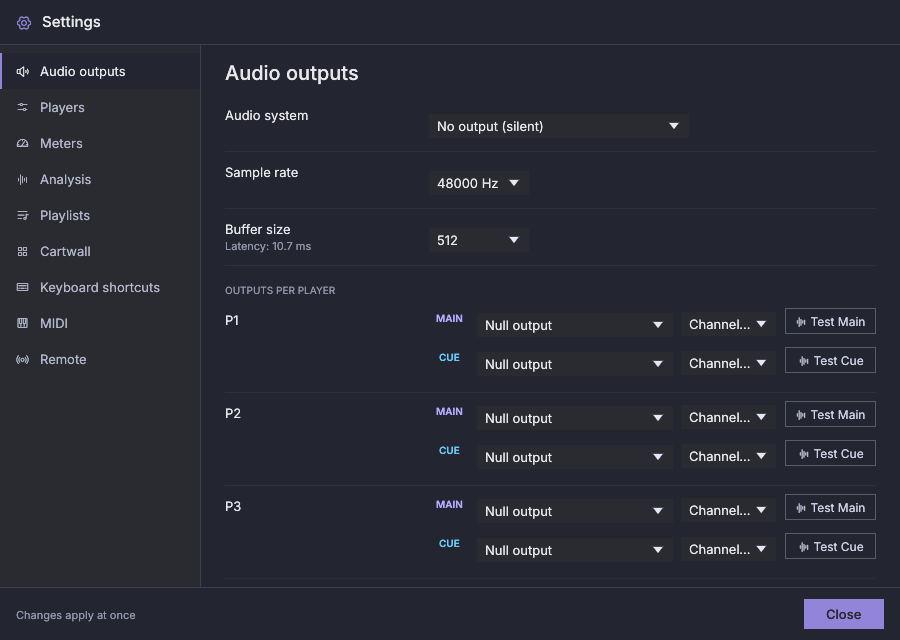
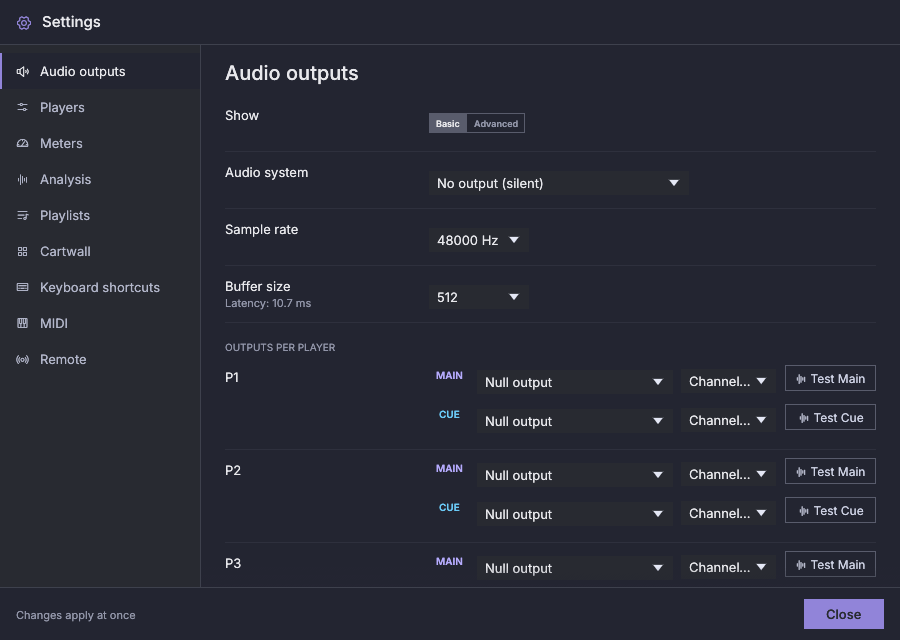
docs: describe the Basic and Advanced outputs settings
Operator feedback 4, Q12 and Q3: the guide, the technical docs and the
README describe each device's own rate and buffer, the DSD row on every
device with its reason, and the DSD silence control. The spec records
plan 5 as built, with the three choices pending confirmation.

diff --git a/docs/user/settings.md b/docs/user/settings.md
@@ -16,9 +16,9 @@ Cartwall, MIDI and Remote have none.
 ## Restart pending
 
 Some changes only take effect when the application starts again: the audio
-system, sample rate, buffer size, the Main and Cue outputs (players and
-cartwall) and the bit-perfect devices. The number of players is not one of
-them: it applies at once.
+system, sample rate, buffer size (also a device's own), the Main and Cue
+outputs (players and cartwall), the bit-perfect devices and the DSD settings.
+The number of players is not one of them: it applies at once.
 
 The limits and the engine tuning also apply at the next start, but they are
 edited in the configuration file with the application closed (see
@@ -45,19 +45,29 @@ start it from your applications menu.
 Changes in this section wait for a restart: see
 [Restart pending](#restart-pending).
 
-![Settings, Audio outputs: the audio system, sample rate, buffer size and each player's Main and Cue outputs (here the silent system)](../images/guide/settings-outputs.png)
+![Settings, Audio outputs, Basic view: the selector, the audio system, sample rate, buffer size and each player's Main and Cue outputs (here the silent system)](../images/guide/settings-outputs.png)
+
+At the top, **Show** chooses **Basic** or **Advanced**. Basic shows the
+audio system, the sample rate, the buffer size and the outputs. Advanced
+adds, for each device an output uses, its own rate and buffer, the
+bit-perfect switch and the DSD mode, and then the DSD settings. Switching
+views only shows or hides rows: nothing is changed or reset. When Basic
+hides a setting that is in use, a line says so.
 
 | Setting | Meaning |
 |---|---|
 | Audio system | The last choice, **No output (silent)**, plays nothing: timelines run at real-time pace with no sound card (for a machine without one, or to rehearse). Linux: PipeWire (in builds that include it), PulseAudio, JACK or ALSA. Windows: WASAPI, ASIO (in builds that include it) or JACK. macOS: Core Audio or JACK. Systems missing on this computer, or with no output device (a JACK server that is not running), are shown as unavailable. "System default" uses the first available one in that order. |
-| Sample rate | The rate every output runs at; files are converted to it with high-quality resampling. Bit-perfect devices start at this rate and then follow the files. |
-| Buffer size | Frames per audio block; the resulting latency is shown below it |
+| Sample rate | The rate every output runs at unless a device has its own (Advanced); files are converted to it with high-quality resampling. Bit-perfect devices start at their rate and then follow the files. |
+| Buffer size | Frames per audio block, unless a device has its own; the resulting latency is shown below it |
 | Outputs per player | For each player, a **Main** (on-air) device and a **Cue** (pre-listen) device, each with a channel pair. A sound card that offers several output profiles (ALSA lists front, surround, direct hardware…) shows each as *card — profile*; two entries that would still read the same get their device id in brackets. Multichannel interfaces can carry several players on different pairs. |
 | Test Main / Test Cue | Plays a short tone (1 kHz on Main, 440 Hz on Cue, 1.5 s, −18 dBFS) on the chosen output, so you can check the wiring before going on air |
 | Cartwall | The cartwall's Main and Cue outputs. Main defaults to the system output. Without a Cue there is no cart pre-listen. |
-| Bit-perfect devices | One switch per device chosen above. A bit-perfect device is opened with exclusive access and follows each file's sample rate while nothing plays on it. The switch is disabled where the device cannot give exclusive access. See [Bit-perfect output](bit-perfect.md). |
-| DSD (per bit-perfect device) | **Convert to PCM** (the default), **DoP** or, on Linux, **Native DSD**. Only the modes the device can take are offered. With DoP or native DSD, a DSD track reaches the device unchanged when nothing else plays on it and the player's volume is 100 %. See [DSD](bit-perfect.md#dsd). |
-| When another source needs a DSD output | **Continue the DSD track as PCM** (the default), or **Keep DSD and mute the other sources**. See [DSD](bit-perfect.md#dsd). |
+| Sample rate: *device* (Advanced) | **Global (...)** uses the sample rate above; a value gives this device its own rate. Only the rates the device reports are offered. |
+| Buffer size: *device* (Advanced) | **Global (...)** uses the buffer size above; a value gives this device its own, with its latency below. |
+| Bit-perfect: *device* (Advanced) | A bit-perfect device is opened with exclusive access and follows each file's sample rate while nothing plays on it. The switch is disabled where the device cannot give exclusive access. See [Bit-perfect output](bit-perfect.md). |
+| DSD: *device* (Advanced) | **Convert to PCM** (the default), **DoP** or, on Linux, **Native DSD**. Every device shows it; only the modes the device can take are offered, and a line under it says why the others are not. See [DSD](bit-perfect.md#dsd). |
+| When another source needs a DSD output (Advanced) | **Continue the DSD track as PCM** (the default), or **Keep DSD and mute the other sources**. See [DSD](bit-perfect.md#dsd). |
+| DSD silence (Advanced) | Silence sent before a DSD stream starts, after it ends and on a switch to PCM, so that the converter locks without a click; 200 ms by default, 0 to 2000. |
 
 A Cue output never falls back to the output Main uses, so that pre-listening
 never goes on air. A Cue that names a device on an audio system this

diff --git a/docs/user/bit-perfect.md b/docs/user/bit-perfect.md
@@ -10,8 +10,12 @@ processing on the computer should be avoided.
 1. In **Settings → Audio outputs**, choose the device explicitly for a
    player's Main output (or the cartwall's). A player left on the system
    default cannot be made bit-perfect.
-2. Under **Bit-perfect devices**, turn on the switch next to the device.
+2. Choose **Advanced** at the top of the section. Under **Per-device
+   settings**, turn on **Bit-perfect** next to the device.
 3. Restart the application.
+
+The device then starts at its own sample rate when you gave it one in the same
+place, else at the global sample rate, and follows each file from there.
 
 The switch is disabled when the device cannot give exclusive access.
 - **Linux:** choose an ALSA device whose name starts with `hw:`. It is the
@@ -61,15 +65,17 @@ The switch is disabled when the device cannot give exclusive access.
 A DSD file normally plays converted to PCM, like any other file. A
 bit-perfect device can instead receive the DSD stream unchanged.
 
-**The three modes.** Under each bit-perfect device, Settings → Audio outputs
-has a **DSD** choice, next to the device's bit-perfect switch:
+**The three modes.** In the Advanced view of Settings → Audio outputs, every
+device an output uses has a **DSD** choice under its bit-perfect switch:
 - **Convert to PCM** (the default): DSD is converted, as on any other device.
 - **DoP** (DSD over PCM): the DSD bits travel inside 24-bit PCM samples, which
   most DSD-capable converters recognise. It works on every system.
 - **Native DSD** (Linux only): raw DSD, for ALSA `hw:` devices whose driver
   reports a DSD sample format.
 
-Only the modes the device can take are offered. Changing a mode, the mixing
+Only the modes the device can take are offered, and a line under the choice
+says why the others are not: bit-perfect is off, the device cannot be opened
+exclusively, native DSD needs Linux, or the device does not take native DSD. Changing a mode, the mixing
 setting or the DSD silence needs a restart, like the other output settings.
 
 **When DSD goes out unchanged.** All of these must hold when the track
@@ -115,8 +121,8 @@ silence first (200 ms by default), so that the converter locks without a
 click. The exception is a DSD track that continues a stream of the same kind
 and DSD rate whose silence is still running: the converter is still locked, so
 it starts with no extra silence. A track therefore starts that much later, and a switch to PCM leaves a
-gap of that length. It is `outputs.dsd_silence_ms` in the configuration file
-(0 to 2000).
+gap of that length. It is **DSD silence** in Settings → Audio outputs, Advanced
+(0 to 2000 ms).
 
 **When another source needs the device.** **When another source needs a DSD
 output** in Settings → Audio outputs chooses what happens when another
@@ -199,7 +205,7 @@ have not been tried on a real converter by the project. To check one:
    PCM**.
 2. Listen for a click or a burst of noise at the start, at Stop, at the end
    of the track and when moving the fader. A click means the converter needs
-   a longer `outputs.dsd_silence_ms`.
+   a longer **DSD silence** (Settings → Audio outputs, Advanced).
 3. Start a cart or another player on the same device, once with each mixing
    setting, and check the behaviour described above.
 4. On Linux, to check native DSD without the application, run

diff --git a/docs/superpowers/plans/2026-10-06-feedback4-plan5-outputs-settings.md b/docs/superpowers/plans/2026-10-06-feedback4-plan5-outputs-settings.md
@@ -2233,12 +2233,12 @@ fi
 - Check only: the spec lines Q12 and Q3 change are already in the main spec (L469), the bit-perfect spec (L42, L85) and the feedback 2 spec (L516–518).
 - Locales: none (Tasks 4 and 5 added every string to both).
 
-- [ ] **Step 1: Check the binding specs**
+- [x] **Step 1: Check the binding specs**
 
 Run: `grep -n "Basic | Advanced" docs/superpowers/specs/2026-09-25-fauste-player-design.md; grep -n "rate override\|Advanced view" docs/superpowers/specs/2026-09-26-phase4-bit-perfect-design.md; grep -n "Advanced outputs view" docs/superpowers/specs/2026-10-01-operator-feedback-2-design.md`
 Expected: one match in each file. If one is missing, apply the replacement text the feedback 4 spec gives under Q12 or Q3, "Spec lines that change".
 
-- [ ] **Step 2: User guide, Settings**
+- [x] **Step 2: User guide, Settings**
 
 In `docs/user/settings.md`, Restart pending, replace "system, sample rate, buffer size, the Main and Cue outputs (players and cartwall) and the bit-perfect devices." with "system, sample rate, buffer size (also a device's own), the Main and Cue outputs (players and cartwall), the bit-perfect devices and the DSD settings."
 
@@ -2270,7 +2270,7 @@ hides a setting that is in use, a line says so.
 
 Copy the text of the rows marked "(unchanged row)" from the current table, not the marker.
 
-- [ ] **Step 3: User guide, Bit-perfect and Troubleshooting**
+- [x] **Step 3: User guide, Bit-perfect and Troubleshooting**
 
 In `docs/user/bit-perfect.md`, "Setting a device bit-perfect", step 2 becomes: "2. Choose **Advanced** at the top of the section. Under **Per-device settings**, turn on **Bit-perfect** next to the device." The device then starts at its own sample rate when it has one (Settings), else at the global rate.
 
@@ -2282,7 +2282,7 @@ In "DSD on a real converter", step 2, replace "a longer `outputs.dsd_silence_ms`
 
 In `docs/user/troubleshooting.md`, replace "raise `outputs.dsd_silence_ms` (200 by default) in the configuration file." with "raise **DSD silence** (200 ms by default) in Settings → Audio outputs, Advanced."
 
-- [ ] **Step 4: Technical docs**
+- [x] **Step 4: Technical docs**
 
 In `docs/technical/persistence.md`, `outputs` table, add after `dsd_silence_ms`:
 
@@ -2309,7 +2309,7 @@ device only the rates and buffer sizes its `DeviceInfo` reports
 none.
 ```
 
-- [ ] **Step 5: README and the spec's "As built" note**
+- [x] **Step 5: README and the spec's "As built" note**
 
 In `README.md`, after the "Bit-perfect output" bullet, add:
 
@@ -2334,11 +2334,11 @@ In short:
 - the section heading is "Per-device settings".
 ```
 
-- [ ] **Step 6: Screenshots**
+- [x] **Step 6: Screenshots**
 
 The Outputs page now has the selector, so the guide image changes. On Linux with `xvfb`, `xdotool`, ImageMagick, `ffmpeg`, `python3` and `curl` installed, run `scripts/site/screenshots.sh`. Check `docs/images/guide/settings-outputs.png`: the page must show the Basic view with the selector, and the crop must still fit (CLAUDE.md, Testing notes). If the tools are missing, record that in the ledger as `Ruling: settings-outputs.png not regenerated — tools missing — the guide image lacks the selector until it is`.
 
-- [ ] **Step 7: Commit**
+- [x] **Step 7: Commit**
 
 ```bash
 git add README.md docs/user/settings.md docs/user/bit-perfect.md docs/user/troubleshooting.md \

diff --git a/docs/superpowers/specs/2026-10-06-operator-feedback-4-design.md b/docs/superpowers/specs/2026-10-06-operator-feedback-4-design.md
@@ -1,7 +1,7 @@
 # Operator Feedback 4 — Design Spec
 
 - **Date:** 2026-10-06
-- **Status:** Plans 1 to 4 implemented (Q6 not reproduced, see plan 2's "As built"); plan 5 not implemented.
+- **Status:** Plans 1 to 5 implemented (Q6 not reproduced, see plan 2's "As built"), except plan 5's Task 7, the check on real hardware.
 - **Extends:** [the main design spec](2026-09-25-fauste-player-design.md) (§3 rules,
   §6 analysis, §8 UI), the [meters spec](2026-09-27-meters-design.md) (M4 display),
   the [bit-perfect spec](2026-09-26-phase4-bit-perfect-design.md) (B3 rate, B6
@@ -678,6 +678,43 @@ Rulings made while implementing:
   reason.
 - **Docs and locales.** The reason strings and `settings-dsd-default-pcm` in
   en-US and es-ES; `docs/user/bit-perfect.md`.
+
+**As built (plan 5).** The rulings are in
+`docs/superpowers/plans/2026-10-06-feedback4-plan5-outputs-settings.md`.
+In short:
+- an override change reuses the SampleRate and BufferSize restart reasons
+  (the notice does not say which device changed);
+- the DSD reasons and the offered modes live in `fp_model::device_offer`,
+  with at most one reason, the most fundamental first;
+- an unplugged device reads as not exclusive-capable;
+- the Advanced rows list the devices that routes name (`routed_devices`);
+  a player on the system default output gets no rows;
+- a device's own value equal to the global one stays the device's own, and
+  only **Global (...)** removes it;
+- switching views changes `ui.outputs_view` only;
+- the DSD mode box is disabled when PCM is the only mode offered;
+- the engine opens each device at its own rate and buffer, and a
+  bit-perfect device starts at its own rate and still follows each file.
+
+Three choices are pending the maintainer's confirmation (each is easy to
+reverse):
+- **[ASK] Rates and buffers offered.** A device's own rate and buffer list
+  only the values the device reports (all when it reports nothing or is
+  unplugged), and a chosen value always stays listed. A device that
+  under-reports cannot be given a rate it does take, except in
+  `config.json`. Reversing it is a change to `offered_rates` and
+  `offered_buffers`.
+- **[ASK] The Basic hint line.** Basic shows one line when a routed device is
+  bit-perfect or has its own rate or buffer, or when the DSD mix or silence
+  is not the default (`OutputsConfig::advanced_in_use`), so that an upgraded
+  installation does not hide active settings. Reversing it is dropping the
+  line.
+- **[ASK] The heading.** "Bit-perfect devices" became "Per-device settings"
+  (`settings-devices`; `settings-devices-none` replaces
+  `settings-bit-perfect-none`), because the section now holds the rate and
+  buffer too.
+
+Task 7, the check on real hardware, is not done.
 
 ---
 

diff --git a/docs/technical/persistence.md b/docs/technical/persistence.md
@@ -156,6 +156,7 @@ any field this version does not have.
 | `dsd_output[]` | empty | `{ backend, device, mode }` with `mode` `Pcm`, `Dop` or `Native`: what a bit-perfect device receives from a DSD track. A device not listed here, or not in `bit_perfect`, converts DSD to PCM. A device listed twice keeps its first mode (warning) |
 | `dsd_mix` | `ConvertToPcm` | `ConvertToPcm` or `HoldOthers`: what happens when another source needs an output carrying DSD |
 | `dsd_silence_ms` | 200 | DSD silence at a DSD stream's start, end and switch to PCM; 0 to 2000 (clamped, with a warning) |
+| `device_overrides[]` | empty | `{ device: { backend, device }, sample_rate?, buffer_frames? }`: a device's own rate and buffer, used instead of `sample_rate` and `buffer_frames` when it opens (operator feedback 4, Q12). Same ranges as the global fields; an out-of-range value is dropped with a warning and the device uses the global one; a device listed twice keeps its first values (warning); an entry with neither is removed |
 
 ### `meter` (Settings → Meters; applied at once)
 
@@ -177,6 +178,7 @@ any field this version does not have.
 
 | Field | Default | Meaning |
 |---|---|---|
+| `outputs_view` | `Basic` | `Basic` or `Advanced`: what Settings → Audio outputs shows. It changes no output setting |
 | `follow_current_grace_secs` | 10 | 0 … 600 (seconds after the operator uses a zoomed waveform or a playlist table before it follows what plays; 0 never follows) |
 | `table_columns` | `["number", "title", "artist", "duration"]` | an ordered list of `number`, `title`, `artist`, `album`, `date`, `genre`, `duration`, `intro`, `file_name`; unknown names are dropped when the file is read, duplicates keep their first place, and a missing `title` or `duration` is added back (`Config::validate` warns) |
 | `wave_color` | `slate` | `violet`, `amber`, `cyan`, `white`, `orange`, `magenta`, `ice`, `sand`, `slate` |

diff --git a/docs/technical/ui.md b/docs/technical/ui.md
@@ -19,6 +19,7 @@
 | `ui/table_layout.rs` | The pure widths of the table's columns: `column_min`, `fit`, `column_px`, `resize_px`, `fractions_of`, and the drop geometry of an entry drag (operator feedback 4, Q4): `drop_index` (pointer, the scroll area's visible rect, its scroll offset, `ROW_HEIGHT` and the entry count give the boundary index, or `None` over the header, a column resize grab zone, the scroll bar, outside the body), `boundary_y` (the boundary's y, `None` outside the view) and `on_column_edge`; unit-tested |
 | `ui/reset_played.rs` | The Reset played question (O22): `show` returns `Some(true)`, `Some(false)` or `None`; the footer button in `player.rs` sets `ViewState::confirm_reset`, `AppUi` draws it below the close guard and sends `Command::ResetPlayed`; Esc and a deleted playlist close it; no shortcut or file drop acts under it |
 | `ui/settings.rs` | The Settings modal (outputs, players and language, analysis, playlists and their table columns) |
+| `ui/settings/devices.rs` | Settings → Audio outputs, Advanced view: per routed device the bit-perfect switch, its own rate and buffer (`offered_rates`, `offered_buffers`) and its DSD mode with the reason a mode is missing (`dsd_not_offered`), then the DSD mix and silence; the Basic \| Advanced selector is `view_selector` in `ui/settings.rs` |
 | `ui/settings/columns.rs` | Settings → Playlists → Table columns: `column_rows`, the checkboxes, the arrows (`move_column`) and Default columns; every change goes through `Scene::set_table_columns` |
 | `ui/settings/carts.rs`, `ui/settings/keys.rs` | Settings → Cartwall (pages, grid, cart editor, import and export) and → Keyboard shortcuts (capture, conflicts) |
 | `ui/settings/remote.rs` | Settings → Remote: the HTTP and OSC switches, addresses, token, origins and senders, and each server's state read from the remote thread's status cell |

diff --git a/docs/technical/audio-engine.md b/docs/technical/audio-engine.md
@@ -169,7 +169,12 @@ cannot hang the conductor.
 
 ### Rates and bit-perfect buses
 
-- **Each bus has its own rate.** It starts at `outputs.sample_rate`. Every
+- **Each bus has its own rate.** It starts at its device's own rate
+  (`outputs.device_overrides`, `EngineSettings::rate_for`) or
+  `outputs.sample_rate`, and asks for the device's own buffer or
+  `outputs.buffer_frames` (`buffer_for`). The mixer's smoothing and declick
+  lengths are in that rate's frames, and the one-block margins use the bus's
+  own buffer (`Engine::buffer_of`). Every
   seconds↔frames conversion for a source uses the rate of that source's bus:
   fades, declicks, pause ramps, planned transitions, positions, cart loop
   points and test tones (`Engine::rate_of`, `frames_on`). Workers open each
@@ -305,7 +310,7 @@ plus the mixer's DSD mode.
   chosen: an idle bus goes back to the PCM configuration it had before the
   DSD (`DsdBus::pcm`, kept by `open_dsd_stream`); a bus with sources on it
   (a native switch) tries the word rate first, so their timelines stay,
-  then the PCM configuration before the DSD, then `outputs.sample_rate`. When
+  then the PCM configuration before the DSD, then the device's own rate or `outputs.sample_rate` (`rate_for`). When
   the rate changes under sources, `follow_forced_rate` opens every player
   and cart source on the bus again at its position at the new rate, as a
   seek does (a looped cart from its cue-in); sources fading out and test

diff --git a/docs/technical/backends.md b/docs/technical/backends.md
@@ -33,6 +33,13 @@ buffer size the driver settled on. When WASAPI refuses a period and the
 aligned retry fails too, the error keeps the first refusal (the reason), and
 the bus logs it when it falls back to shared.
 
+Each device is asked for its own rate and buffer when it has them
+(`outputs.device_overrides`, operator feedback 4, Q12), else for the global
+ones; a backend sees only the resulting `StreamConfig`. Settings offers a
+device only the rates and buffer sizes its `DeviceInfo` reports
+(`fp_model::offered_rates`, `offered_buffers`), all of them when it reports
+none.
+
 **Exclusive access (Phase 4):**
 - `StreamConfig::exclusive` asks for sole, unconverted access. A backend that
   cannot give it for the device returns `BackendError::Unsupported`.

diff --git a/README.md b/README.md
@@ -93,6 +93,10 @@ audio engine that the interface can never block.
   devices whose driver reports a DSD format), with a DSD badge. DoP and native
   DSD are checked on simulated devices only; a check on a real converter is
   still to do.
+- **Per-device outputs:** Settings → Audio outputs has a Basic and an
+  Advanced view; in Advanced each device can have its own sample rate and
+  buffer size, and shows its bit-perfect switch and DSD mode with why a mode
+  is not offered.
 - **Routing per player:** Main and Cue outputs on any device and channel
   pair. Multichannel interfaces carry several players at once.
 - **Resilient:**

diff --git a/docs/user/troubleshooting.md b/docs/user/troubleshooting.md
@@ -66,8 +66,8 @@
   The converter does not recognise DoP (or the native format). Set the device
   back to **Convert to PCM**.
 - **A click when a DSD track starts, stops or leaves DSD.** The converter
-  needs more DSD silence: raise `outputs.dsd_silence_ms` (200 by default) in
-  the configuration file.
+  needs more DSD silence: raise **DSD silence** (200 ms by default) in
+  Settings → Audio outputs, Advanced.
 - **Other players or carts are silent on the device.** A DSD track is playing
   with **Keep DSD and mute the other sources**; the **Others muted** badge
   shows. They sound again when the track ends.
